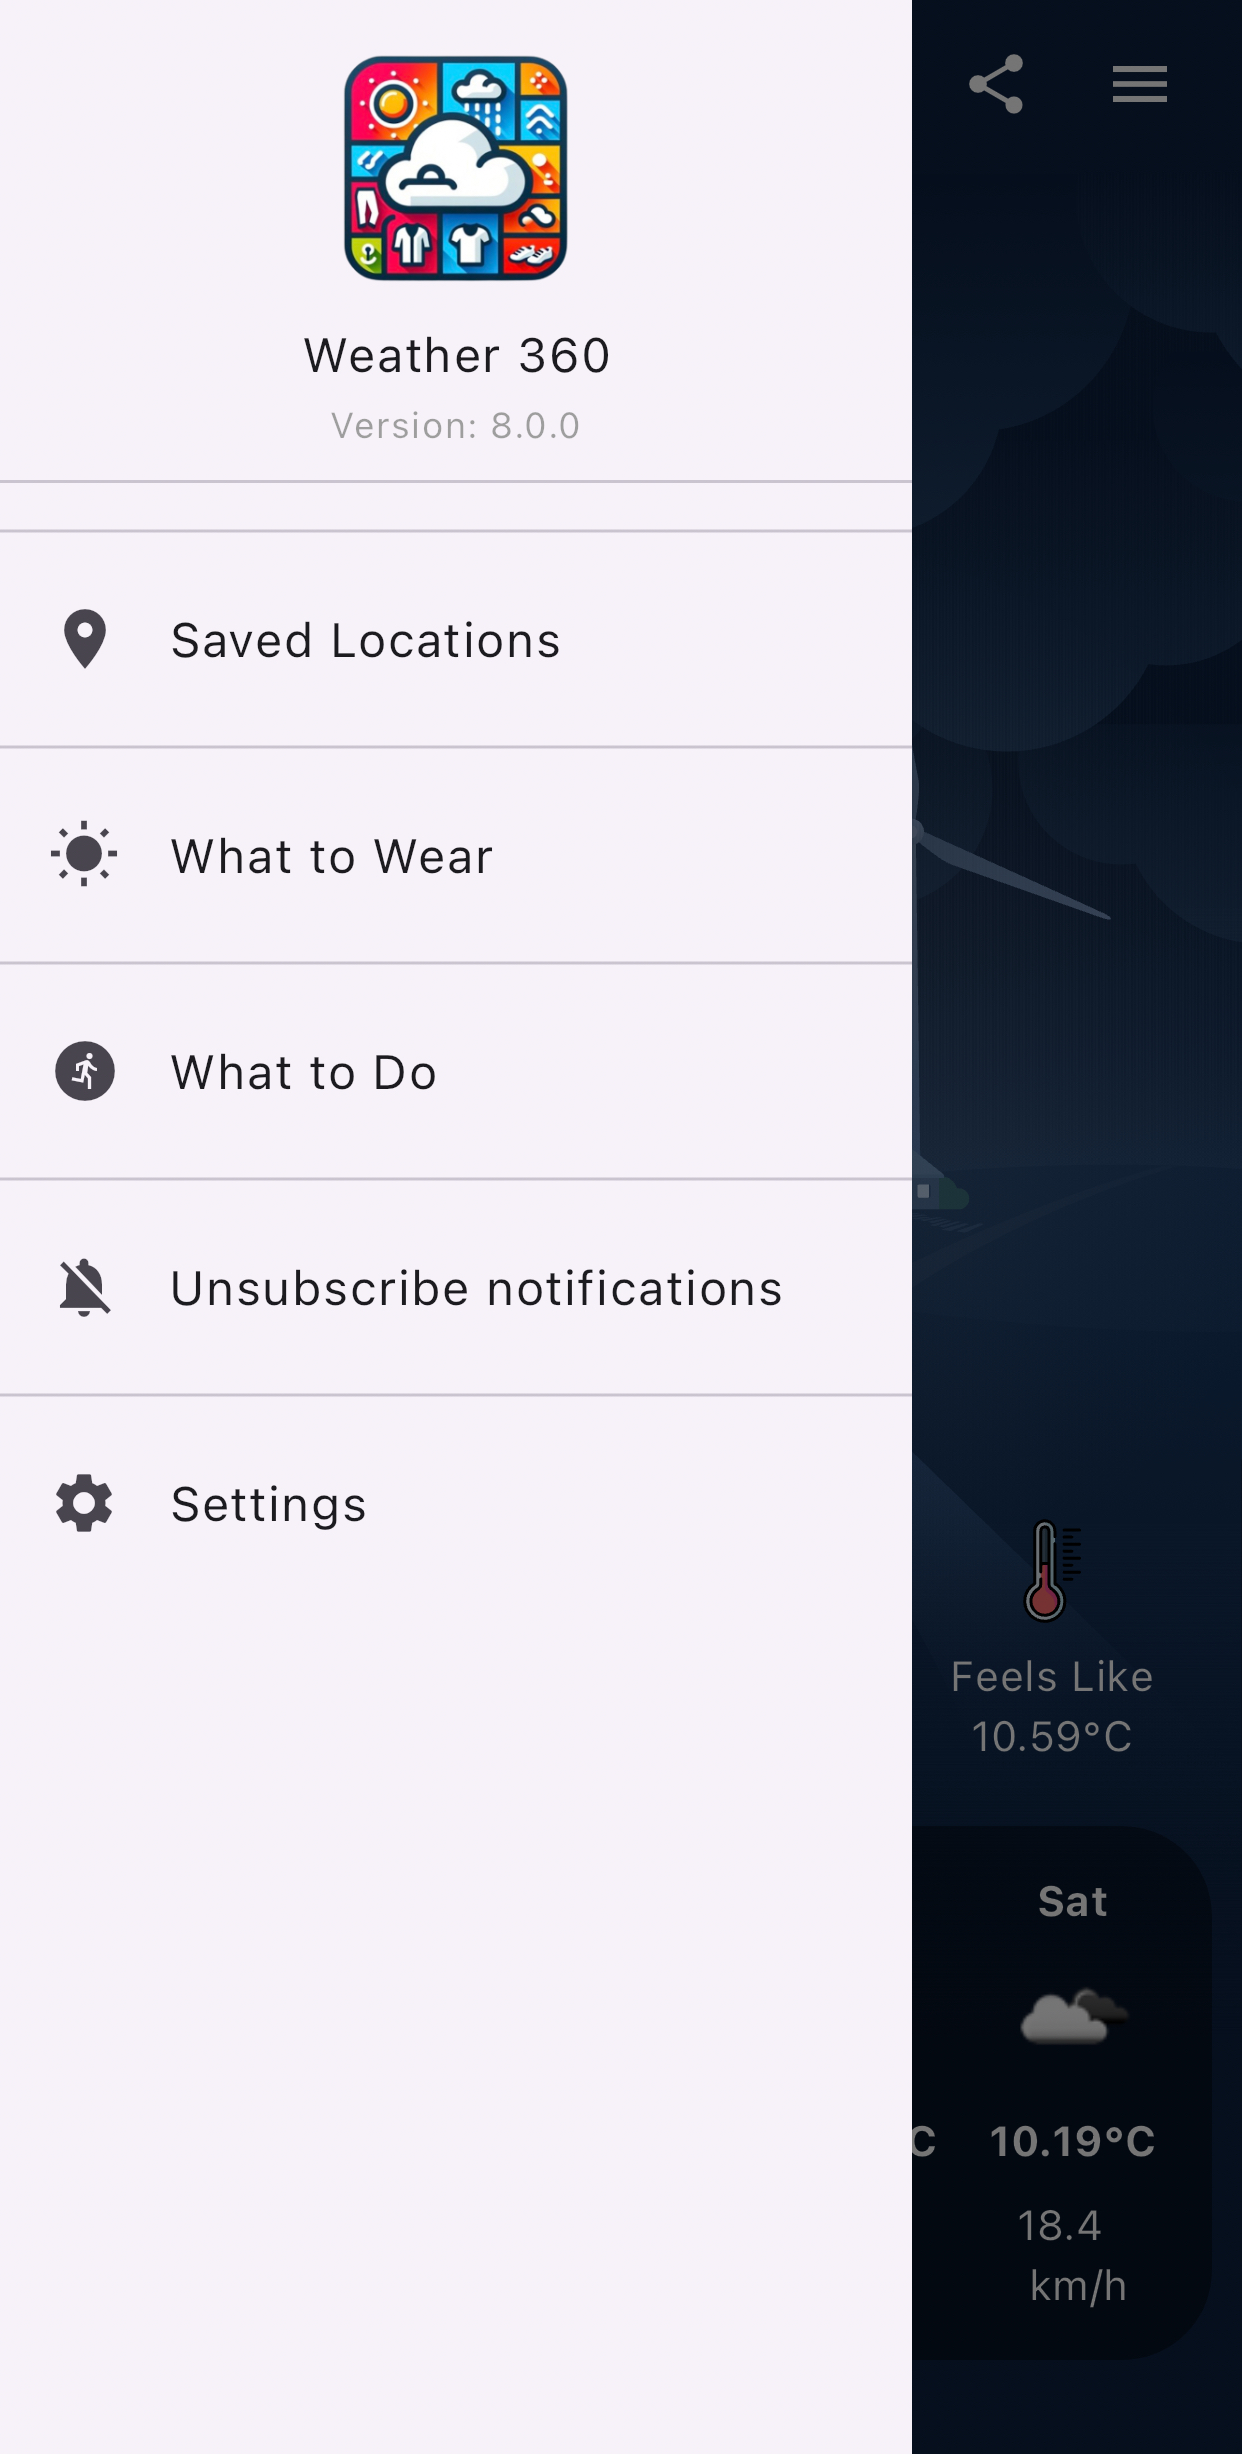
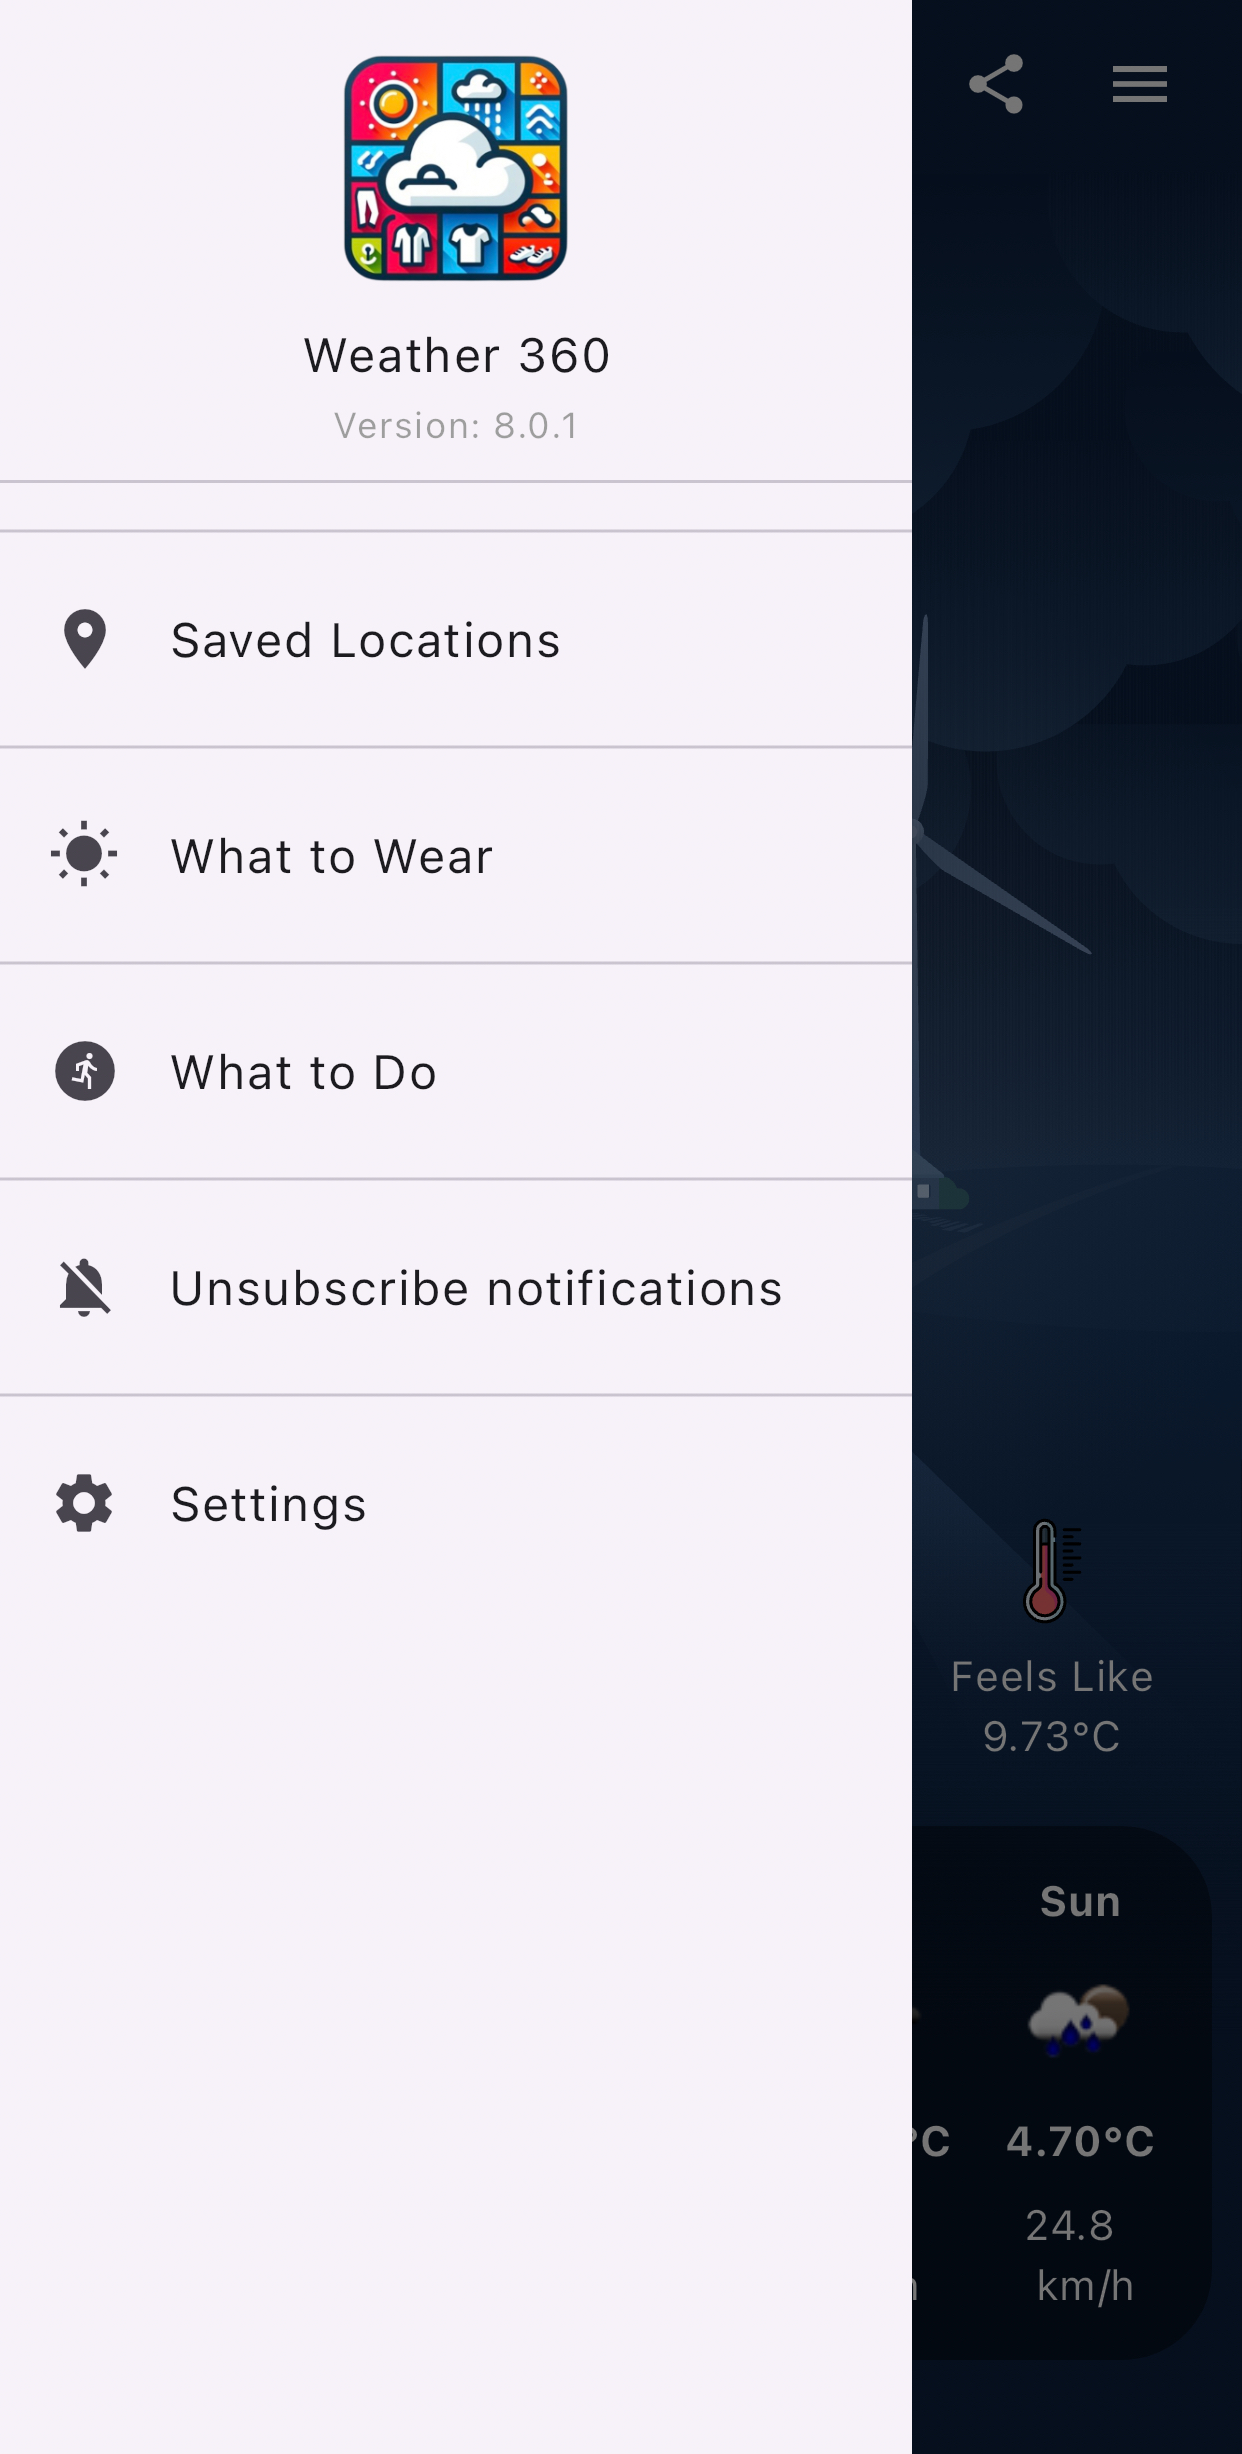
published bug fix to google play

diff --git a/lib/screens/weather_screen.dart b/lib/screens/weather_screen.dart
@@ -743,7 +743,7 @@ class _WeatherPageState extends State<WeatherPage> with WidgetsBindingObserver {
                         const Text('Weather 360'),
                         SizedBox(height: 3),
                         Text(
-                          'Version: 8.0.0',
+                          'Version: 8.0.1',
                           style: TextStyle(
                             fontSize: 12,
                             color: Colors.grey,
